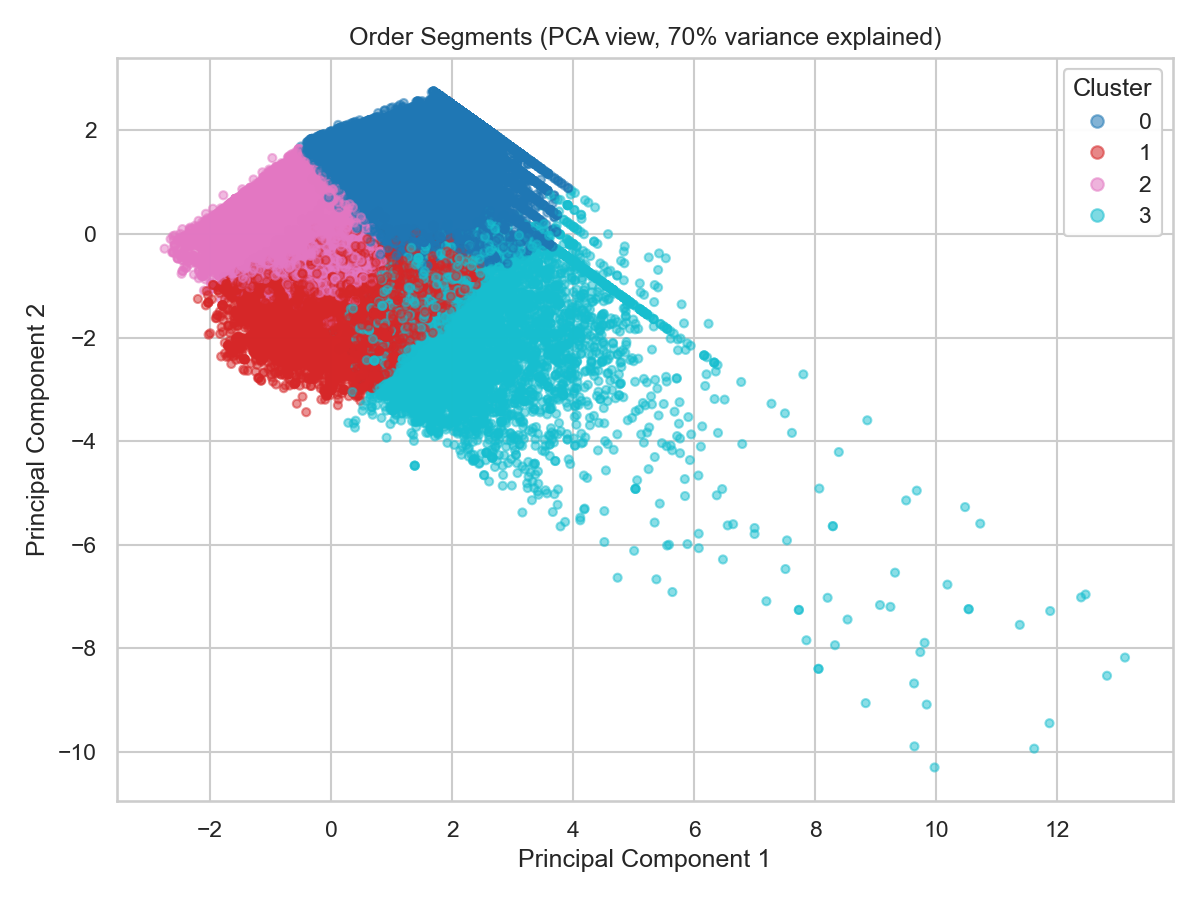
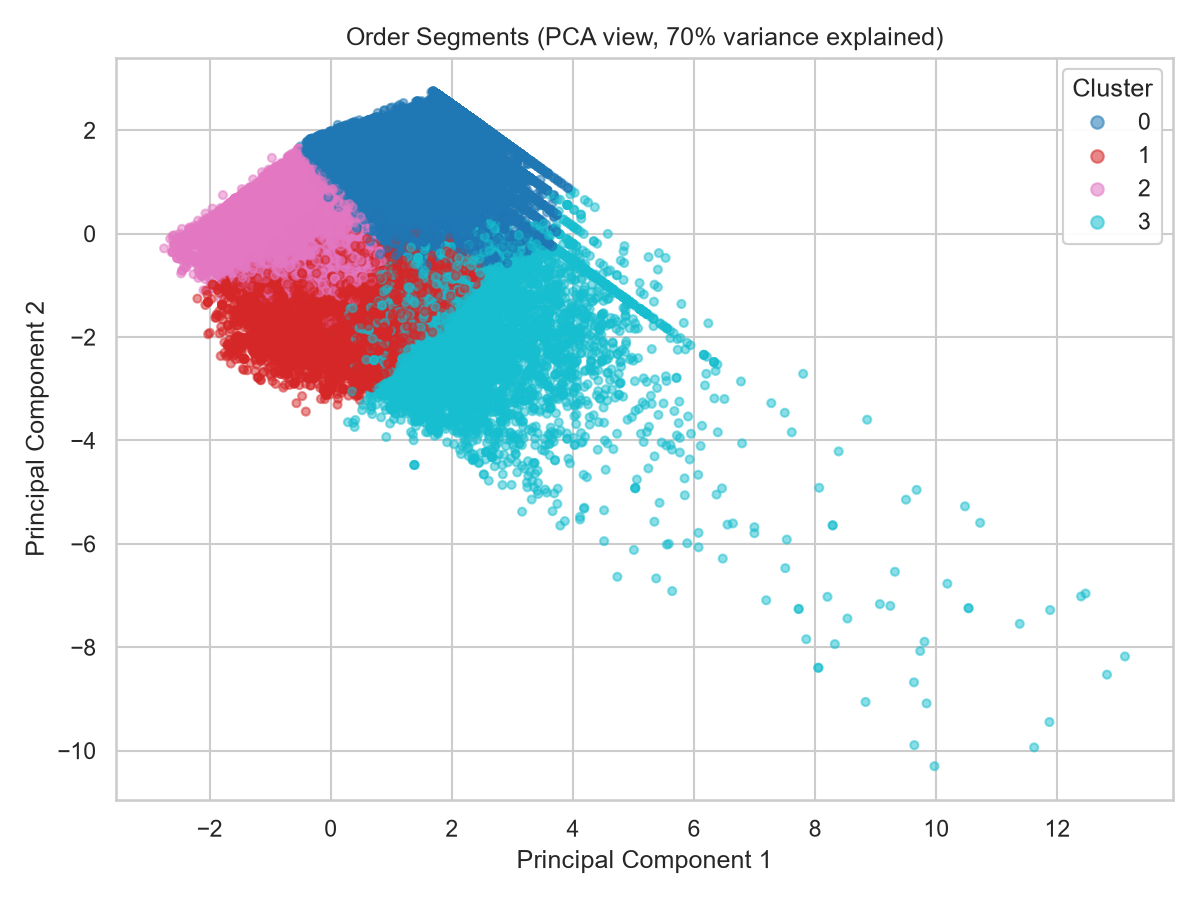
phase 4

diff --git a/scripts/phase3.py b/scripts/phase3.py
@@ -12,8 +12,12 @@ WHAT THIS SCRIPT DOES:
 
 HOW TO RUN:
     pip install streamlit plotly
-    streamlit run scripts/phase3.py
-  This opens automatically in your browser at http://localhost:8501
+    streamlit run scripts/phase3.py     # interactive dashboard in the browser
+    python scripts/phase3.py            # same pipeline, printed to the terminal
+  `streamlit run` opens automatically in your browser at http://localhost:8501.
+  `python scripts/phase3.py` runs the identical pipeline but has no browser/
+  Streamlit runtime, so it prints all tables/metrics as plain text instead
+  (charts are skipped in this mode — a one-line note says so where relevant).
 
 WHERE THE DATA COMES FROM:
     Reads the raw Olist CSVs straight from data/raw/ (no Phase 2 / database
@@ -50,6 +54,156 @@ import plotly.express as px
 import plotly.graph_objects as go
 from sklearn.preprocessing import StandardScaler
 from pathlib import Path
+import streamlit.runtime as st_runtime
+
+# ------------------------------------------------------------------------
+# STEP 0a: DUAL-MODE SUPPORT
+# ------------------------------------------------------------------------
+# `streamlit run scripts/phase3.py` -> normal interactive dashboard.
+# `python scripts/phase3.py`        -> no Streamlit runtime exists, so every
+#   st.* call would otherwise be a silent no-op (that's the "missing
+#   ScriptRunContext" warning you see). Instead, when there's no runtime we
+#   swap `st` for a tiny shim that prints the same content straight to the
+#   terminal, so the SAME script body below works in both modes untouched.
+RUNNING_IN_STREAMLIT = st_runtime.exists()
+
+
+class _ConsoleColumn:
+    def __enter__(self):
+        return self
+
+    def __exit__(self, *exc):
+        return False
+
+    def metric(self, label, value):
+        print(f"  {label}: {value}")
+
+
+class _ConsoleTab:
+    def __init__(self, name):
+        self.name = name
+
+    def __enter__(self):
+        print("\n" + "=" * 70)
+        print(self.name)
+        print("=" * 70)
+        return self
+
+    def __exit__(self, *exc):
+        return False
+
+
+class _ConsoleExpander:
+    def __init__(self, label):
+        self.label = label
+
+    def __enter__(self):
+        print(f"\n--- {self.label} ---")
+        return self
+
+    def __exit__(self, *exc):
+        return False
+
+
+class _ConsoleSpinner:
+    def __init__(self, text):
+        self.text = text
+
+    def __enter__(self):
+        if self.text:
+            print(self.text)
+        return self
+
+    def __exit__(self, *exc):
+        return False
+
+
+class ConsoleUI:
+    """Drop-in stand-in for the small slice of the streamlit API this script
+    uses. When there's no Streamlit runtime, `st` is rebound to an instance
+    of this class so `st.title(...)`, `st.dataframe(...)`, `with st.tabs(...)`
+    etc. print plain text/tables to the terminal instead of doing nothing."""
+
+    @staticmethod
+    def set_page_config(**kwargs):
+        pass
+
+    @staticmethod
+    def cache_data(func=None, **kwargs):
+        if func is not None:
+            return func
+
+        def decorator(f):
+            return f
+
+        return decorator
+
+    @staticmethod
+    def spinner(text=""):
+        return _ConsoleSpinner(text)
+
+    @staticmethod
+    def title(text):
+        print("\n" + text)
+        print("#" * len(text))
+
+    @staticmethod
+    def caption(text):
+        print(f"({text})")
+
+    @staticmethod
+    def columns(n):
+        return [_ConsoleColumn() for _ in range(n)]
+
+    @staticmethod
+    def metric(label, value):
+        print(f"{label}: {value}")
+
+    @staticmethod
+    def markdown(text):
+        print(text)
+
+    @staticmethod
+    def tabs(names):
+        return [_ConsoleTab(name) for name in names]
+
+    @staticmethod
+    def subheader(text):
+        print("\n" + text)
+        print("-" * len(text))
+
+    @staticmethod
+    def dataframe(data, **kwargs):
+        try:
+            print(data.to_string())
+        except AttributeError:
+            print(data)
+
+    @staticmethod
+    def expander(label, **kwargs):
+        return _ConsoleExpander(label)
+
+    @staticmethod
+    def info(text):
+        print(f"[INFO] {text}")
+
+    @staticmethod
+    def error(text):
+        print(f"[ERROR] {text}")
+
+    @staticmethod
+    def stop():
+        raise SystemExit(0)
+
+    @staticmethod
+    def plotly_chart(fig, **kwargs):
+        print("[chart not shown in terminal mode — run "
+              "`streamlit run scripts/phase3.py` to view it in the browser]")
+
+
+if not RUNNING_IN_STREAMLIT:
+    st = ConsoleUI()
+
 
 # ------------------------------------------------------------------------
 # STEP 0b: PAGE CONFIG — must be the FIRST streamlit command in the script

diff --git a/scripts/phase4.py b/scripts/phase4.py
@@ -18,7 +18,11 @@ WHAT THIS SCRIPT DOES (in order):
      business" interpretation, saved into outputs/phase4_summary.txt
 
 HOW TO RUN:
-    python scripts/ml.py
+    python scripts/ml.py                    # prints everything to the terminal
+    streamlit run scripts/phase4.py         # same run, plus a browser dashboard
+  Both run the identical pipeline. In terminal mode there's no Streamlit
+  runtime, so the st.* dashboard calls are silently skipped — you get the
+  same results via the print() statements below, with no warning spam.
 
 REQUIRES (install once):
     pip install scikit-learn scipy
@@ -38,6 +42,55 @@ import pandas as pd
 import numpy as np
 from sqlalchemy import create_engine
 from pathlib import Path
+import streamlit.runtime as st_runtime
+
+# ------------------------------------------------------------------------
+# STEP 0a: DUAL-MODE SUPPORT
+# ------------------------------------------------------------------------
+# This script already prints every result via plain print() (see below), so
+# it's fully usable with `python scripts/phase4.py` as the docstring says.
+# The st.* calls layered alongside those prints are for the optional
+# `streamlit run scripts/phase4.py` dashboard view. Problem: outside of
+# `streamlit run` there's no ScriptRunContext, so every one of those st.*
+# calls prints a "missing ScriptRunContext" warning even though it's
+# otherwise harmless. Fix: when there's no Streamlit runtime, swap `st` for
+# a silent no-op stand-in — the print() statements already give you the
+# full terminal report, so the st.* calls just need to disappear quietly.
+RUNNING_IN_STREAMLIT = st_runtime.exists()
+
+
+class _NullWidget:
+    """Absorbs any attribute/method access and any further chaining (e.g.
+    col.metric(...)) without doing anything or raising."""
+
+    def __getattr__(self, name):
+        def _noop(*args, **kwargs):
+            return None
+        return _noop
+
+    def __enter__(self):
+        return self
+
+    def __exit__(self, *exc):
+        return False
+
+
+class NullUI:
+    """Drop-in stand-in for streamlit when there's no runtime. Every method
+    call (st.header, st.write, st.columns, st.pyplot, etc.) becomes a no-op
+    instead of emitting 'missing ScriptRunContext' warnings."""
+
+    def __getattr__(self, name):
+        def _noop(*args, **kwargs):
+            return None
+        return _noop
+
+    def columns(self, n):
+        return [_NullWidget() for _ in range(n)]
+
+
+if not RUNNING_IN_STREAMLIT:
+    st = NullUI()
 
 # Charts
 import matplotlib

diff --git a/docs/Ingestion_workflow.md b/docs/Ingestion_workflow.md
@@ -90,7 +90,7 @@ python scripts\phase3.py
 Inspect missing data from the raw CSV source files:
 
 ```powershell
-python -c "import pandas as pd; df = pd.read_csv('data/raw/olist_orders_dataset.csv'); print(df.isna().sum().sort_values(ascending=False))"
+python -c "import pandas as pd; df = pd.read_csv('data/raw/olist_order_reviews_dataset.csv'); print(df.isna().sum().sort_values(ascending=False))"
 ```
 
 Check duplicates in a raw CSV file: